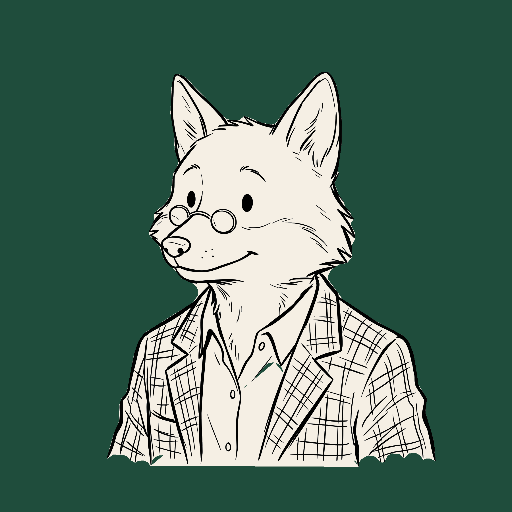
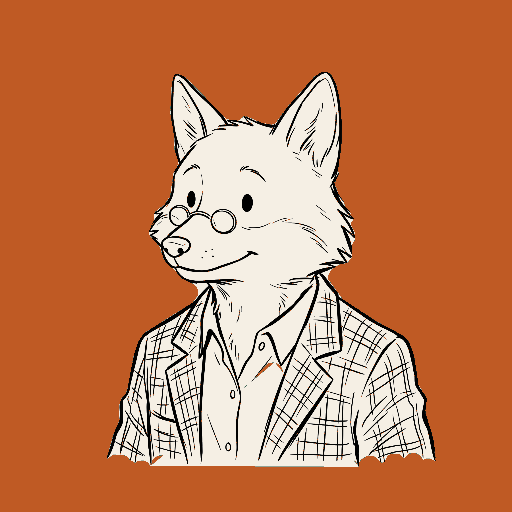
Retheme Fenet quiz to rust-primary to match video palette
Swap forest-primary for rust-primary using exact Renardo brand tokens
(Rust #BF5A24, Forest #1F4D3C, Navy #1E2A4D, Gold #B8893A). Ties the
quiz visually to the warm Ethiopia-street video on the preceding screen.

Assets: generate rust variants of fox bust, lockup, and favicon by
swapping forest #1F4D3C -> rust #BF5A24 on the source brand files
(via ImageMagick -opaque, fuzz 8%). Forest kept as secondary for
"correct" feedback so green=right semantics survive. Incorrect
feedback moves from terracotta guess to brand Clay #A66049.

diff --git a/9 grade/Unit 6/Fenet Reading Quiz.html b/9 grade/Unit 6/Fenet Reading Quiz.html
@@ -9,15 +9,25 @@
 <style>
 *,*::before,*::after{box-sizing:border-box;margin:0;padding:0}
 :root{
-  /* Renardo palette — forest / navy / paper / ink */
-  --forest:#1E4B3A;
+  /* Renardo palette — exact brand tokens */
+  --rust:#BF5A24;          /* accent — now primary */
+  --rust-deep:#994418;
+  --rust-soft:#F3DDCB;
+  --rust-line:#E6B694;
+
+  --forest:#1F4D3C;        /* brand — secondary */
   --forest-deep:#163528;
   --forest-soft:#D7E2D6;
-  --forest-line:#B6C8B4;
-  --sage:#8DA890;
 
-  --navy:#1E3A5F;
-  --navy-deep:#152945;
+  --navy:#1E2A4D;          /* Americana */
+  --gold:#B8893A;          /* flourish */
+
+  /* Watercolor accents */
+  --sage:#A7B8A4;
+  --ochre:#D4A85E;
+  --terracotta:#C97B54;
+  --clay:#A66049;
+  --dust-rose:#C89188;
 
   --paper:#F5EFDE;
   --paper-warm:#FBF6E8;
@@ -30,17 +40,17 @@
   --border-strong:#D4C5A0;
 
   --text-dark:var(--ink);
-  --text-mid:#5A5448;
-  --text-light:#8A8473;
+  --text-mid:#5A4E3E;
+  --text-light:#8A7E68;
 
-  /* Feedback — muted, brand-compatible */
-  --ok:#2D6B52;
+  /* Feedback — brand-compatible */
+  --ok:var(--forest);
   --ok-bg:#E1EEDC;
-  --err:#A84530;
-  --err-bg:#F2E0D8;
+  --err:var(--clay);
+  --err-bg:#F2E0D4;
 
-  --shadow:0 2px 12px rgba(30,75,58,.08), 0 1px 3px rgba(30,75,58,.06);
-  --shadow-md:0 6px 24px rgba(30,75,58,.12);
+  --shadow:0 2px 12px rgba(191,90,36,.10), 0 1px 3px rgba(191,90,36,.06);
+  --shadow-md:0 6px 24px rgba(191,90,36,.14);
 
   --radius:16px;
   --radius-sm:10px;
@@ -57,14 +67,14 @@ body{
 
 /* Header */
 .app-header{
-  background:var(--forest);
+  background:var(--rust);
   padding:16px 18px;display:flex;align-items:center;gap:14px;flex-shrink:0;
-  border-bottom:3px solid var(--forest-deep);
+  border-bottom:3px solid var(--rust-deep);
 }
 .app-header-icon{
   width:48px;height:48px;border-radius:12px;flex-shrink:0;
   overflow:hidden;
-  border:1.5px solid var(--forest-line);
+  border:1.5px solid var(--rust-line);
   box-shadow:0 2px 6px rgba(0,0,0,.15);
 }
 .app-header-icon img{width:100%;height:100%;object-fit:cover;display:block}
@@ -74,7 +84,7 @@ body{
   color:var(--paper-warm);line-height:1.2;letter-spacing:.005em;
 }
 .app-header-sub{
-  font-size:11.5px;color:var(--forest-line);margin-top:3px;
+  font-size:11.5px;color:var(--rust-line);margin-top:3px;
   font-weight:500;font-family:var(--sans);letter-spacing:.02em;
 }
 .header-brand{
@@ -95,11 +105,11 @@ body{
   color:var(--text-light);text-transform:uppercase;letter-spacing:.1em;
   font-size:10.5px;font-weight:700;
 }
-.progress-counter{color:var(--forest);font-size:14px;font-weight:700;font-family:var(--serif)}
+.progress-counter{color:var(--rust);font-size:14px;font-weight:700;font-family:var(--serif)}
 .progress-counter .current{color:var(--ink)}
 .progress-track{height:4px;background:var(--border);border-radius:10px;overflow:hidden}
 .progress-fill{
-  height:100%;background:var(--forest);
+  height:100%;background:var(--rust);
   border-radius:10px;transition:width .5s cubic-bezier(.4,0,.2,1);
 }
 
@@ -121,7 +131,7 @@ body{
 }
 .intro-hero img{width:100%;height:100%;object-fit:cover;display:block}
 .intro-eyebrow{
-  font-size:10.5px;font-weight:700;color:var(--forest);
+  font-size:10.5px;font-weight:700;color:var(--rust);
   text-transform:uppercase;letter-spacing:.14em;
 }
 .intro-title{
@@ -137,21 +147,21 @@ body{
 }
 .meta-chip{
   display:inline-flex;align-items:center;gap:6px;
-  background:var(--forest-soft);color:var(--forest-deep);
+  background:var(--rust-soft);color:var(--rust-deep);
   font-size:11.5px;font-weight:600;padding:6px 12px;border-radius:4px;
-  border:1px solid var(--forest-line);
+  border:1px solid var(--rust-line);
   letter-spacing:.02em;
 }
 .start-btn{
   margin-top:12px;align-self:center;
-  background:var(--forest);color:var(--paper-warm);
+  background:var(--rust);color:var(--paper-warm);
   border:none;padding:13px 28px;border-radius:6px;
   font-family:var(--sans);font-size:14.5px;font-weight:700;cursor:pointer;
   transition:background .2s, transform .1s;
   letter-spacing:.02em;
   box-shadow:var(--shadow);
 }
-.start-btn:hover{background:var(--forest-deep)}
+.start-btn:hover{background:var(--rust-deep)}
 .start-btn:active{transform:scale(.98)}
 
 /* Question card */
@@ -162,11 +172,11 @@ body{
 }
 .q-type-pill{
   display:inline-flex;align-items:center;gap:6px;
-  background:transparent;color:var(--forest);
+  background:transparent;color:var(--rust);
   font-family:var(--sans);
   font-size:10.5px;font-weight:700;letter-spacing:.14em;text-transform:uppercase;
   padding:0;width:fit-content;
-  border-bottom:1.5px solid var(--forest);
+  border-bottom:1.5px solid var(--rust);
   padding-bottom:3px;
 }
 .q-text{
@@ -180,7 +190,7 @@ body{
   color:var(--ink);cursor:pointer;text-align:left;
   transition:all .15s;display:flex;align-items:center;gap:12px;line-height:1.45;
 }
-.opt:hover:not(:disabled){border-color:var(--forest);background:var(--forest-soft)}
+.opt:hover:not(:disabled){border-color:var(--rust);background:var(--rust-soft)}
 .opt:disabled{cursor:default}
 .opt-marker{
   width:24px;height:24px;border-radius:50%;
@@ -253,8 +263,8 @@ body{
   font-family:var(--sans);font-size:14px;font-weight:700;cursor:pointer;
   transition:all .15s;letter-spacing:.02em;
 }
-.results-btn.primary{background:var(--forest);color:var(--paper-warm)}
-.results-btn.primary:hover{background:var(--forest-deep)}
+.results-btn.primary{background:var(--rust);color:var(--paper-warm)}
+.results-btn.primary:hover{background:var(--rust-deep)}
 .results-btn.secondary{
   background:transparent;color:var(--ink);
   border:1.5px solid var(--border-strong);
@@ -571,11 +581,11 @@ function showResults() {
   } else if (pct >= 65) {
     title = 'Well done';
     msg = 'You grasped the main ideas. Review the questions you missed, then continue.';
-    colorVar = 'var(--forest)';
+    colorVar = 'var(--rust)';
   } else if (pct >= 45) {
     title = 'Keep going';
     msg = 'Listen to the audio once more and read through the missed questions below.';
-    colorVar = 'var(--sage)';
+    colorVar = 'var(--ochre)';
   } else {
     title = 'Try again';
     msg = 'Re-read the text carefully, then redo the quiz. You have this.';
